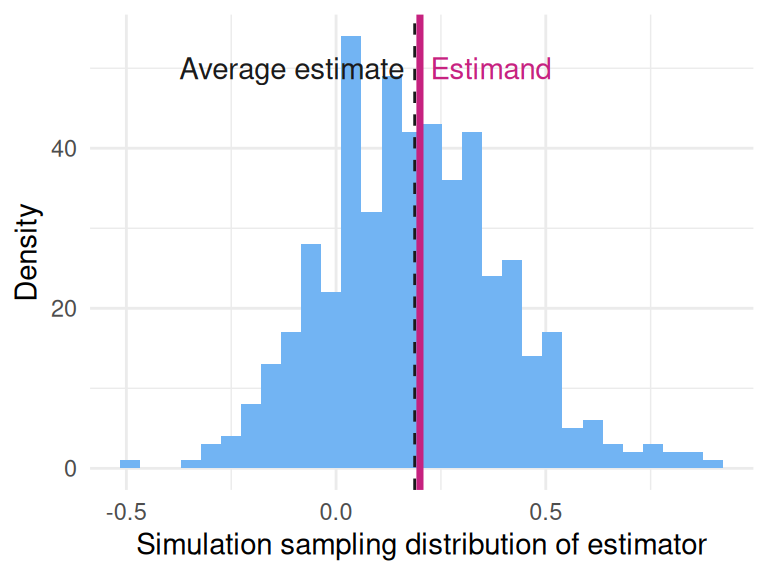
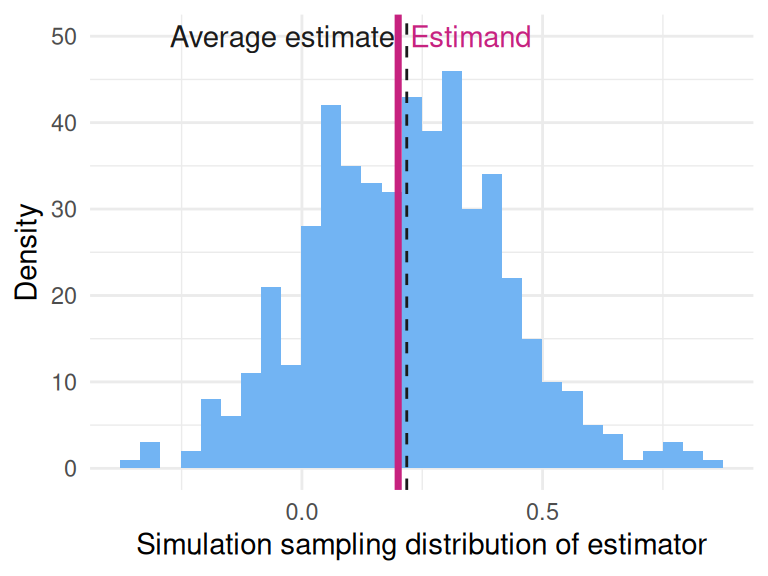
Deploying to gh-pages from @ DeclareDesign/declaredesign.org@ef742b71dfbaa0170645eb417be08eebdf3b7301 🚀

diff --git a/blog/index.html b/blog/index.html
@@ -251,7 +251,7 @@ window.Quarto = {
 
 <div class="quarto-listing quarto-listing-container-default" id="listing-listing">
 <div class="list quarto-listing-default">
-<div class="quarto-post image-right" data-index="0" data-listing-date-sort="1578441600000" data-listing-file-modified-sort="1789496609705" data-listing-date-modified-sort="NaN" data-listing-reading-time-sort="7" data-listing-word-count-sort="1252">
+<div class="quarto-post image-right" data-index="0" data-listing-date-sort="1578441600000" data-listing-file-modified-sort="1789950666687" data-listing-date-modified-sort="NaN" data-listing-reading-time-sort="7" data-listing-word-count-sort="1252">
 <div class="thumbnail"><a href="../blog/posts/declaredesign-wizard.html" class="no-external">
 
 <p class="card-img-top"><img loading='lazy' src="posts/rfiles/wiz_1.png"  class="thumbnail-image card-img"/></p>
@@ -276,7 +276,7 @@ Clara Bicalho, Sisi Huang, Markus Konrad
 </a>
 </div>
 </div>
-<div class="quarto-post image-right" data-index="1" data-listing-date-sort="1550534400000" data-listing-file-modified-sort="1789496609705" data-listing-date-modified-sort="NaN" data-listing-reading-time-sort="19" data-listing-word-count-sort="3634">
+<div class="quarto-post image-right" data-index="1" data-listing-date-sort="1550534400000" data-listing-file-modified-sort="1789950666687" data-listing-date-modified-sort="NaN" data-listing-reading-time-sort="19" data-listing-word-count-sort="3634">
 <div class="thumbnail"><a href="../blog/posts/instrument-does-not-have-to-be-exogenous.html" class="no-external">
 
 <p class="card-img-top"><img loading='lazy' src="posts/instrument-does-not-have-to-be-exogenous_files/figure-html/dag-1.png"  class="thumbnail-image card-img"/></p>
@@ -301,7 +301,7 @@ Declare Design Team
 </a>
 </div>
 </div>
-<div class="quarto-post image-right" data-index="2" data-listing-date-sort="1549929600000" data-listing-file-modified-sort="1789496609705" data-listing-date-modified-sort="NaN" data-listing-reading-time-sort="10" data-listing-word-count-sort="1909">
+<div class="quarto-post image-right" data-index="2" data-listing-date-sort="1549929600000" data-listing-file-modified-sort="1789950666687" data-listing-date-modified-sort="NaN" data-listing-reading-time-sort="10" data-listing-word-count-sort="1909">
 <div class="thumbnail"><a href="../blog/posts/badly-posed-questions.html" class="no-external">
 
 <p class="card-img-top"><img loading='lazy' src="posts/badly-posed-questions_files/figure-html/unnamed-chunk-6-1.png"  class="thumbnail-image card-img"/></p>
@@ -326,7 +326,7 @@ Declare Design Team
 </a>
 </div>
 </div>
-<div class="quarto-post image-right" data-index="3" data-listing-date-sort="1549411200000" data-listing-file-modified-sort="1789496609705" data-listing-date-modified-sort="NaN" data-listing-reading-time-sort="7" data-listing-word-count-sort="1202">
+<div class="quarto-post image-right" data-index="3" data-listing-date-sort="1549411200000" data-listing-file-modified-sort="1789950666687" data-listing-date-modified-sort="NaN" data-listing-reading-time-sort="7" data-listing-word-count-sort="1202">
 <div class="thumbnail"><a href="../blog/posts/ordered-probit.html" class="no-external">
 
 <p class="card-img-top"><img loading='lazy' src="posts/ordered-probit_files/figure-html/unnamed-chunk-3-1.png"  class="thumbnail-image card-img"/></p>
@@ -351,7 +351,7 @@ DeclareDesign Team
 </a>
 </div>
 </div>
-<div class="quarto-post image-right" data-index="4" data-listing-date-sort="1548806400000" data-listing-file-modified-sort="1789496609706" data-listing-date-modified-sort="NaN" data-listing-reading-time-sort="21" data-listing-word-count-sort="4141">
+<div class="quarto-post image-right" data-index="4" data-listing-date-sort="1548806400000" data-listing-file-modified-sort="1789950666687" data-listing-date-modified-sort="NaN" data-listing-reading-time-sort="21" data-listing-word-count-sort="4141">
 <div class="thumbnail"><a href="../blog/posts/process-tracing.html" class="no-external">
 
 <p class="card-img-top"><img loading='lazy' src="posts/process-tracing_files/figure-html/unnamed-chunk-6-1.png"  class="thumbnail-image card-img"/></p>
@@ -376,7 +376,7 @@ Declare Design Team
 </a>
 </div>
 </div>
-<div class="quarto-post image-right" data-index="5" data-listing-date-sort="1548201600000" data-listing-file-modified-sort="1789496609705" data-listing-date-modified-sort="NaN" data-listing-reading-time-sort="10" data-listing-word-count-sort="1859">
+<div class="quarto-post image-right" data-index="5" data-listing-date-sort="1548201600000" data-listing-file-modified-sort="1789950666687" data-listing-date-modified-sort="NaN" data-listing-reading-time-sort="10" data-listing-word-count-sort="1859">
 <div class="thumbnail"><a href="../blog/posts/pilot-studies.html" class="no-external">
 
 <p class="card-img-top"><img loading='lazy' src="posts/pilot-studies_files/figure-html/unnamed-chunk-8-1.png"  class="thumbnail-image card-img"/></p>
@@ -401,7 +401,7 @@ Declare Design Team
 </a>
 </div>
 </div>
-<div class="quarto-post image-right" data-index="6" data-listing-date-sort="1547510400000" data-listing-file-modified-sort="1789496610345" data-listing-date-modified-sort="NaN" data-listing-reading-time-sort="7" data-listing-word-count-sort="1384">
+<div class="quarto-post image-right" data-index="6" data-listing-date-sort="1547510400000" data-listing-file-modified-sort="1789950667303" data-listing-date-modified-sort="NaN" data-listing-reading-time-sort="7" data-listing-word-count-sort="1384">
 <div class="thumbnail"><a href="../blog/posts/use-change-scores-or-control.html" class="no-external">
 
 <p class="card-img-top"><img loading='lazy' src="posts/use-change-scores-or-control_files/figure-html/unnamed-chunk-4-1.png"  class="thumbnail-image card-img"/></p>
@@ -426,7 +426,7 @@ DeclareDesign Team
 </a>
 </div>
 </div>
-<div class="quarto-post image-right" data-index="7" data-listing-date-sort="1546905600000" data-listing-file-modified-sort="1789496609705" data-listing-date-modified-sort="NaN" data-listing-reading-time-sort="7" data-listing-word-count-sort="1299">
+<div class="quarto-post image-right" data-index="7" data-listing-date-sort="1546905600000" data-listing-file-modified-sort="1789950666687" data-listing-date-modified-sort="NaN" data-listing-reading-time-sort="7" data-listing-word-count-sort="1299">
 <div class="thumbnail"><a href="../blog/posts/a-journal-of-null-results-is-a-flawed-fix-for-a-significance-filter.html" class="no-external">
 
 <p class="card-img-top"><img loading='lazy' src="posts/a-journal-of-null-results-is-a-flawed-fix-for-a-significance-filter_files/figure-html/unnamed-chunk-4-1.png"  class="thumbnail-image card-img"/></p>
@@ -451,7 +451,7 @@ DeclareDesign Team
 </a>
 </div>
 </div>
-<div class="quarto-post image-right" data-index="8" data-listing-date-sort="1545264000000" data-listing-file-modified-sort="1789496609705" data-listing-date-modified-sort="NaN" data-listing-reading-time-sort="1" data-listing-word-count-sort="89">
+<div class="quarto-post image-right" data-index="8" data-listing-date-sort="1545264000000" data-listing-file-modified-sort="1789950666687" data-listing-date-modified-sort="NaN" data-listing-reading-time-sort="1" data-listing-word-count-sort="89">
 <div class="thumbnail"><a href="../blog/posts/declaredesign-holiday-hiatus.html" class="no-external">
 
 <p class="card-img-top"><img loading='lazy' src="posts/declaredesign-holiday-hiatus_files/figure-html/unnamed-chunk-1-1.png"  class="thumbnail-image card-img"/></p>
@@ -476,7 +476,7 @@ DeclareDesign Team
 </a>
 </div>
 </div>
-<div class="quarto-post image-right" data-index="9" data-listing-date-sort="1545091200000" data-listing-file-modified-sort="1789496610345" data-listing-date-modified-sort="NaN" data-listing-reading-time-sort="11" data-listing-word-count-sort="2163">
+<div class="quarto-post image-right" data-index="9" data-listing-date-sort="1545091200000" data-listing-file-modified-sort="1789950667303" data-listing-date-modified-sort="NaN" data-listing-reading-time-sort="11" data-listing-word-count-sort="2163">
 <div class="thumbnail"><a href="../blog/posts/sometimes-you-need-to-cluster-standard-errors-above-level-of-treatment.html" class="no-external">
 
 <p class="card-img-top"><img loading='lazy' src="posts/sometimes-you-need-to-cluster-standard-errors-above-level-of-treatment_files/figure-html/std.error_plot1-1.png"  class="thumbnail-image card-img"/></p>
@@ -501,7 +501,7 @@ DeclareDesign Team
 </a>
 </div>
 </div>
-<div class="quarto-post image-right" data-index="10" data-listing-date-sort="1543881600000" data-listing-file-modified-sort="1789496609705" data-listing-date-modified-sort="NaN" data-listing-reading-time-sort="12" data-listing-word-count-sort="2275">
+<div class="quarto-post image-right" data-index="10" data-listing-date-sort="1543881600000" data-listing-file-modified-sort="1789950666687" data-listing-date-modified-sort="NaN" data-listing-reading-time-sort="12" data-listing-word-count-sort="2275">
 <div class="thumbnail"><a href="../blog/posts/give-me-a-random-assignment-yesterday.html" class="no-external">
 
 <p class="card-img-top"><img loading='lazy' src="posts/give-me-a-random-assignment-yesterday_files/figure-html/unnamed-chunk-14-1.png"  class="thumbnail-image card-img"/></p>
@@ -526,7 +526,7 @@ DeclareDesign Team
 </a>
 </div>
 </div>
-<div class="quarto-post image-right" data-index="11" data-listing-date-sort="1543276800000" data-listing-file-modified-sort="1789496609706" data-listing-date-modified-sort="NaN" data-listing-reading-time-sort="11" data-listing-word-count-sort="2014">
+<div class="quarto-post image-right" data-index="11" data-listing-date-sort="1543276800000" data-listing-file-modified-sort="1789950666687" data-listing-date-modified-sort="NaN" data-listing-reading-time-sort="11" data-listing-word-count-sort="2014">
 <div class="thumbnail"><a href="../blog/posts/randomization-does-not-justify-t-tests.html" class="no-external">
 
 <p class="card-img-top"><img loading='lazy' src="posts/randomization-does-not-justify-t-tests_files/figure-html/unnamed-chunk-4-1.png"  class="thumbnail-image card-img"/></p>
@@ -551,7 +551,7 @@ DeclareDesign Team
 </a>
 </div>
 </div>
-<div class="quarto-post image-right" data-index="12" data-listing-date-sort="1542672000000" data-listing-file-modified-sort="1789496609705" data-listing-date-modified-sort="NaN" data-listing-reading-time-sort="12" data-listing-word-count-sort="2373">
+<div class="quarto-post image-right" data-index="12" data-listing-date-sort="1542672000000" data-listing-file-modified-sort="1789950666687" data-listing-date-modified-sort="NaN" data-listing-reading-time-sort="12" data-listing-word-count-sort="2373">
 <div class="thumbnail"><a href="../blog/posts/modelling-spillovers.html" class="no-external">
 
 <p class="card-img-top"><img loading='lazy' src="posts/modelling-spillovers_files/figure-html/unnamed-chunk-2-1.png"  class="thumbnail-image card-img"/></p>
@@ -576,7 +576,7 @@ DeclareDesign Team
 </a>
 </div>
 </div>
-<div class="quarto-post image-right" data-index="13" data-listing-date-sort="1542067200000" data-listing-file-modified-sort="1789496609705" data-listing-date-modified-sort="NaN" data-listing-reading-time-sort="9" data-listing-word-count-sort="1716">
+<div class="quarto-post image-right" data-index="13" data-listing-date-sort="1542067200000" data-listing-file-modified-sort="1789950666687" data-listing-date-modified-sort="NaN" data-listing-reading-time-sort="9" data-listing-word-count-sort="1716">
 <div class="thumbnail"><a href="../blog/posts/learning-from-p.html" class="no-external">
 
 <p class="card-img-top"><img loading='lazy' src="posts/learning-from-p_files/figure-html/unnamed-chunk-4-1.png"  class="thumbnail-image card-img"/></p>
@@ -601,7 +601,7 @@ DeclareDesign Team
 </a>
 </div>
 </div>
-<div class="quarto-post image-right" data-index="14" data-listing-date-sort="1541548800000" data-listing-file-modified-sort="1789496609705" data-listing-date-modified-sort="NaN" data-listing-reading-time-sort="11" data-listing-word-count-sort="2121">
+<div class="quarto-post image-right" data-index="14" data-listing-date-sort="1541548800000" data-listing-file-modified-sort="1789950666687" data-listing-date-modified-sort="NaN" data-listing-reading-time-sort="11" data-listing-word-count-sort="2121">
 <div class="thumbnail"><a href="../blog/posts/neyman-sate-pate.html" class="no-external">
 
 <p class="card-img-top"><img loading='lazy' src="posts/neyman-sate-pate_files/figure-html/unnamed-chunk-8-1.png"  class="thumbnail-image card-img"/></p>
@@ -626,7 +626,7 @@ DeclareDesign Team
 </a>
 </div>
 </div>
-<div class="quarto-post image-right" data-index="15" data-listing-date-sort="1540944000000" data-listing-file-modified-sort="1789496609705" data-listing-date-modified-sort="NaN" data-listing-reading-time-sort="9" data-listing-word-count-sort="1711">
+<div class="quarto-post image-right" data-index="15" data-listing-date-sort="1540944000000" data-listing-file-modified-sort="1789950666687" data-listing-date-modified-sort="NaN" data-listing-reading-time-sort="9" data-listing-word-count-sort="1711">
 <div class="thumbnail"><a href="../blog/posts/bias-cluster-randomized-trials.html" class="no-external">
 
 <p class="card-img-top"><img loading='lazy' src="posts/bias-cluster-randomized-trials_files/figure-html/unnamed-chunk-5-1.png"  class="thumbnail-image card-img"/></p>
@@ -651,7 +651,7 @@ DeclareDesign Team
 </a>
 </div>
 </div>
-<div class="quarto-post image-right" data-index="16" data-listing-date-sort="1540252800000" data-listing-file-modified-sort="1789496610345" data-listing-date-modified-sort="NaN" data-listing-reading-time-sort="6" data-listing-word-count-sort="1038">
+<div class="quarto-post image-right" data-index="16" data-listing-date-sort="1540252800000" data-listing-file-modified-sort="1789950667303" data-listing-date-modified-sort="NaN" data-listing-reading-time-sort="6" data-listing-word-count-sort="1038">
 <div class="thumbnail"><a href="../blog/posts/with-great-power-comes-great-responsibility.html" class="no-external">
 
 <p class="card-img-top"><img loading='lazy' src="posts/with-great-power-comes-great-responsibility_files/figure-html/unnamed-chunk-6-1.png"  class="thumbnail-image card-img"/></p>
@@ -676,7 +676,7 @@ Declare Design Team
 </a>
 </div>
 </div>
-<div class="quarto-post image-right" data-index="17" data-listing-date-sort="1539648000000" data-listing-file-modified-sort="1789496609705" data-listing-date-modified-sort="NaN" data-listing-reading-time-sort="7" data-listing-word-count-sort="1313">
+<div class="quarto-post image-right" data-index="17" data-listing-date-sort="1539648000000" data-listing-file-modified-sort="1789950666687" data-listing-date-modified-sort="NaN" data-listing-reading-time-sort="7" data-listing-word-count-sort="1313">
 <div class="thumbnail"><a href="../blog/posts/how-misleading-are-clustered-ses-in-designs-with-few-clusters.html" class="no-external">
 
 <p class="card-img-top"><img loading='lazy' src="posts/how-misleading-are-clustered-ses-in-designs-with-few-clusters_files/figure-html/unnamed-chunk-6-1.png"  class="thumbnail-image card-img"/></p>
@@ -701,7 +701,7 @@ DeclareDesign Team
 </a>
 </div>
 </div>
-<div class="quarto-post image-right" data-index="18" data-listing-date-sort="1539043200000" data-listing-file-modified-sort="1789496609705" data-listing-date-modified-sort="NaN" data-listing-reading-time-sort="14" data-listing-word-count-sort="2783">
+<div class="quarto-post image-right" data-index="18" data-listing-date-sort="1539043200000" data-listing-file-modified-sort="1789950666687" data-listing-date-modified-sort="NaN" data-listing-reading-time-sort="14" data-listing-word-count-sort="2783">
 <div class="thumbnail"><a href="../blog/posts/biased-fixed-effects.html" class="no-external">
 
 <p class="card-img-top"><img loading='lazy' src="posts/biased-fixed-effects_files/figure-html/unnamed-chunk-16-1.png"  class="thumbnail-image card-img"/></p>
@@ -726,7 +726,7 @@ Declare Design Team
 </a>
 </div>
 </div>
-<div class="quarto-post image-right" data-index="19" data-listing-date-sort="1538438400000" data-listing-file-modified-sort="1789496609705" data-listing-date-modified-sort="NaN" data-listing-reading-time-sort="6" data-listing-word-count-sort="1040">
+<div class="quarto-post image-right" data-index="19" data-listing-date-sort="1538438400000" data-listing-file-modified-sort="1789950666687" data-listing-date-modified-sort="NaN" data-listing-reading-time-sort="6" data-listing-word-count-sort="1040">
 <div class="thumbnail"><a href="../blog/posts/improve-power-using-your-answer-strategy-not-just-your-data-strategy.html" class="no-external">
 
 <p class="card-img-top"><img loading='lazy' src="posts/improve-power-using-your-answer-strategy-not-just-your-data-strategy_files/figure-html/unnamed-chunk-12-1.png"  class="thumbnail-image card-img"/></p>
@@ -751,7 +751,7 @@ DeclareDesign Team
 </a>
 </div>
 </div>
-<div class="quarto-post image-right" data-index="20" data-listing-date-sort="1537747200000" data-listing-file-modified-sort="1789496610345" data-listing-date-modified-sort="NaN" data-listing-reading-time-sort="10" data-listing-word-count-sort="1815">
+<div class="quarto-post image-right" data-index="20" data-listing-date-sort="1537747200000" data-listing-file-modified-sort="1789950667303" data-listing-date-modified-sort="NaN" data-listing-reading-time-sort="10" data-listing-word-count-sort="1815">
 <div class="thumbnail"><a href="../blog/posts/sometimes-blocking-can-reduce-your-precision.html" class="no-external">
 
 <p class="card-img-top"><img loading='lazy' src="posts/sometimes-blocking-can-reduce-your-precision_files/figure-html/unnamed-chunk-7-1.png"  class="thumbnail-image card-img"/></p>
@@ -776,7 +776,7 @@ DeclareDesign Team
 </a>
 </div>
 </div>
-<div class="quarto-post image-right" data-index="21" data-listing-date-sort="1537228800000" data-listing-file-modified-sort="1789496610345" data-listing-date-modified-sort="NaN" data-listing-reading-time-sort="9" data-listing-word-count-sort="1778">
+<div class="quarto-post image-right" data-index="21" data-listing-date-sort="1537228800000" data-listing-file-modified-sort="1789950667303" data-listing-date-modified-sort="NaN" data-listing-reading-time-sort="9" data-listing-word-count-sort="1778">
 <div class="thumbnail"><a href="../blog/posts/you-cant-speak-meaningfully-about-spillovers-without-specifying-an-estimand.html" class="no-external">
 
 <div class="listing-item-img-placeholder card-img-top" >&nbsp;</div>
@@ -801,7 +801,7 @@ DeclareDesign Team
 </a>
 </div>
 </div>
-<div class="quarto-post image-right" data-index="22" data-listing-date-sort="1536710400000" data-listing-file-modified-sort="1789496609705" data-listing-date-modified-sort="NaN" data-listing-reading-time-sort="5" data-listing-word-count-sort="924">
+<div class="quarto-post image-right" data-index="22" data-listing-date-sort="1536710400000" data-listing-file-modified-sort="1789950666687" data-listing-date-modified-sort="NaN" data-listing-reading-time-sort="5" data-listing-word-count-sort="924">
 <div class="thumbnail"><a href="../blog/posts/how-controlling-for-pretreatment-covariates-can-introduce-bias.html" class="no-external">
 
 <p class="card-img-top"><img loading='lazy' src="posts/how-controlling-for-pretreatment-covariates-can-introduce-bias_files/figure-html/unnamed-chunk-9-1.png"  class="thumbnail-image card-img"/></p>
@@ -826,7 +826,7 @@ DeclareDesign Team
 </a>
 </div>
 </div>
-<div class="quarto-post image-right" data-index="23" data-listing-date-sort="1536624000000" data-listing-file-modified-sort="1789496609705" data-listing-date-modified-sort="NaN" data-listing-reading-time-sort="1" data-listing-word-count-sort="163">
+<div class="quarto-post image-right" data-index="23" data-listing-date-sort="1536624000000" data-listing-file-modified-sort="1789950666687" data-listing-date-modified-sort="NaN" data-listing-reading-time-sort="1" data-listing-word-count-sort="163">
 <div class="thumbnail"><a href="../blog/posts/declaredesign-blog.html" class="no-external">
 
 <div class="listing-item-img-placeholder card-img-top" >&nbsp;</div>

diff --git a/index.html b/index.html
@@ -296,27 +296,27 @@ DeclareDesign is a set of software tools to plan, implement, analyze, and commun
 <tbody>
 <tr class="odd">
 <td style="text-align: left;">001</td>
-<td style="text-align: right;">3.31</td>
-<td style="text-align: right;">3.31</td>
-<td style="text-align: right;">3.51</td>
+<td style="text-align: right;">-1.27</td>
+<td style="text-align: right;">-1.27</td>
+<td style="text-align: right;">-1.07</td>
 <td style="text-align: right;">0</td>
-<td style="text-align: right;">3.31</td>
+<td style="text-align: right;">-1.27</td>
 </tr>
 <tr class="even">
 <td style="text-align: left;">002</td>
-<td style="text-align: right;">-1.94</td>
-<td style="text-align: right;">-1.94</td>
-<td style="text-align: right;">-1.74</td>
+<td style="text-align: right;">-0.05</td>
+<td style="text-align: right;">-0.05</td>
+<td style="text-align: right;">0.15</td>
 <td style="text-align: right;">0</td>
-<td style="text-align: right;">-1.94</td>
+<td style="text-align: right;">-0.05</td>
 </tr>
 <tr class="odd">
 <td style="text-align: left;">003</td>
-<td style="text-align: right;">-0.18</td>
-<td style="text-align: right;">-0.18</td>
-<td style="text-align: right;">0.02</td>
+<td style="text-align: right;">0.37</td>
+<td style="text-align: right;">0.37</td>
+<td style="text-align: right;">0.57</td>
 <td style="text-align: right;">1</td>
-<td style="text-align: right;">0.02</td>
+<td style="text-align: right;">0.57</td>
 </tr>
 </tbody>
 </table>
@@ -340,9 +340,9 @@ DeclareDesign is a set of software tools to plan, implement, analyze, and commun
 </thead>
 <tbody>
 <tr class="odd">
-<td style="text-align: right;">0.44</td>
-<td style="text-align: right;">0.2</td>
-<td style="text-align: right;">0.03</td>
+<td style="text-align: right;">0.29</td>
+<td style="text-align: right;">0.18</td>
+<td style="text-align: right;">0.11</td>
 <td style="text-align: left;">ATE</td>
 <td style="text-align: right;">0.2</td>
 </tr>
@@ -380,32 +380,32 @@ DeclareDesign is a set of software tools to plan, implement, analyze, and commun
 </tr>
 <tr class="even">
 <td style="text-align: left;">mean_estimate</td>
-<td style="text-align: right;">0.187</td>
+<td style="text-align: right;">0.218</td>
 <td style="text-align: right;">0.009</td>
 </tr>
 <tr class="odd">
 <td style="text-align: left;">bias</td>
-<td style="text-align: right;">-0.013</td>
+<td style="text-align: right;">0.018</td>
 <td style="text-align: right;">0.009</td>
 </tr>
 <tr class="even">
 <td style="text-align: left;">sd_estimate</td>
-<td style="text-align: right;">0.214</td>
-<td style="text-align: right;">0.007</td>
+<td style="text-align: right;">0.202</td>
+<td style="text-align: right;">0.006</td>
 </tr>
 <tr class="odd">
 <td style="text-align: left;">rmse</td>
-<td style="text-align: right;">0.214</td>
-<td style="text-align: right;">0.007</td>
+<td style="text-align: right;">0.202</td>
+<td style="text-align: right;">0.006</td>
 </tr>
 <tr class="even">
 <td style="text-align: left;">power</td>
-<td style="text-align: right;">0.166</td>
-<td style="text-align: right;">0.016</td>
+<td style="text-align: right;">0.188</td>
+<td style="text-align: right;">0.015</td>
 </tr>
 <tr class="odd">
 <td style="text-align: left;">coverage</td>
-<td style="text-align: right;">0.940</td>
+<td style="text-align: right;">0.942</td>
 <td style="text-align: right;">0.011</td>
 </tr>
 </tbody>
